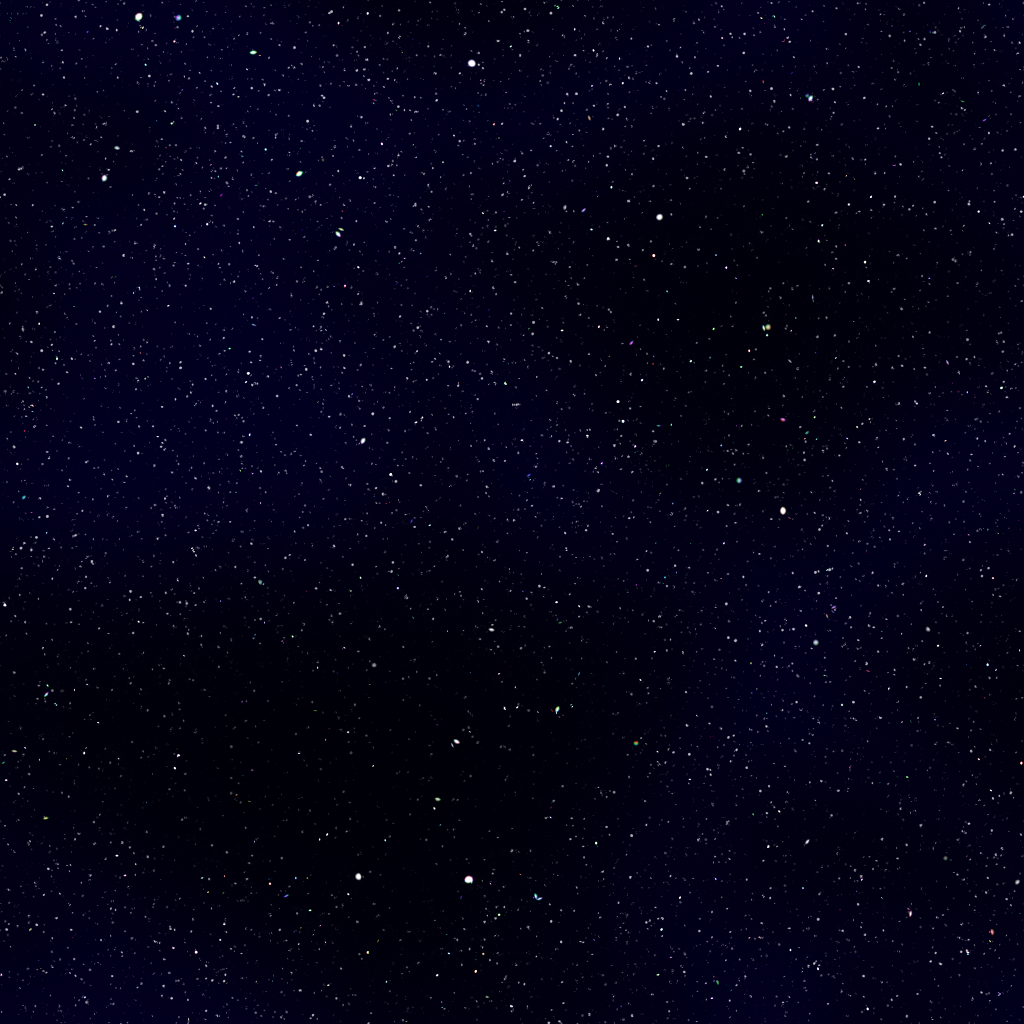
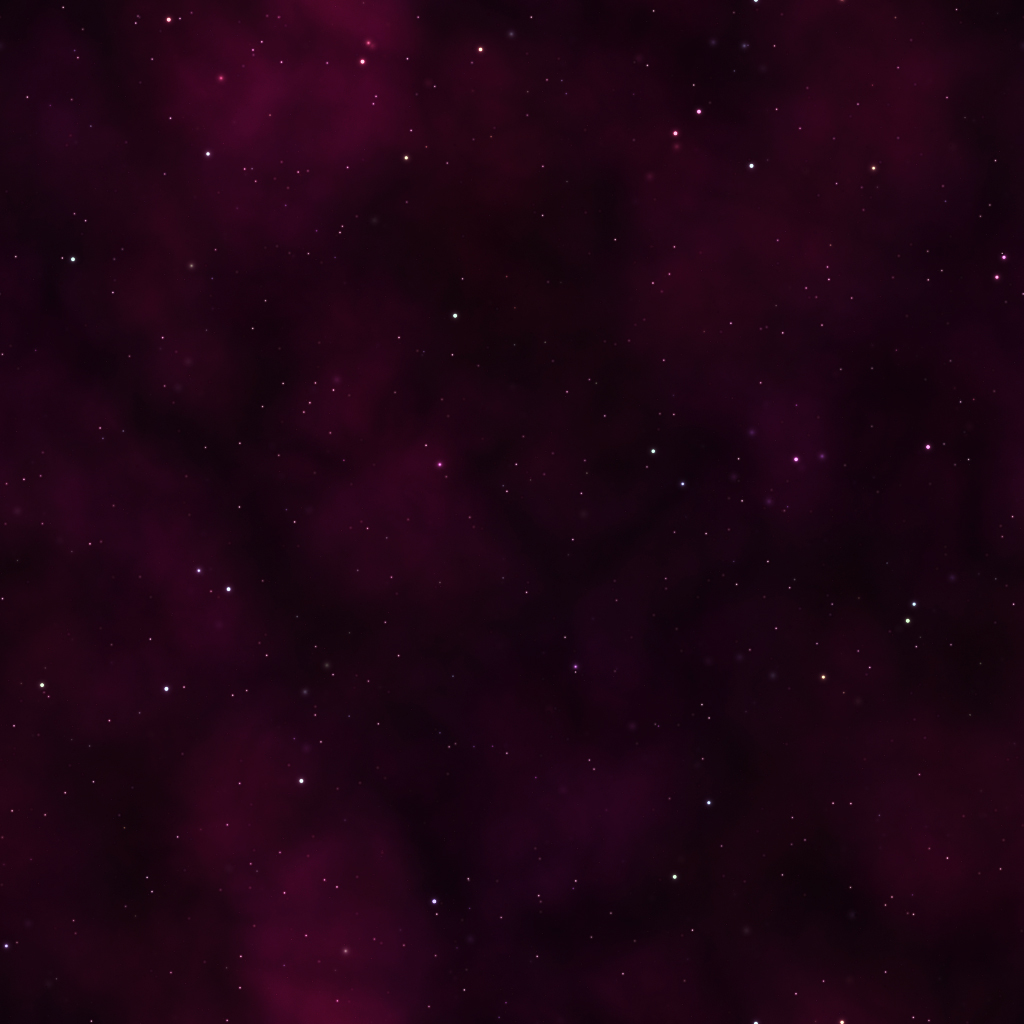
Made a preoper preloader

diff --git a/src/states/Game.js b/src/states/Game.js
@@ -26,17 +26,13 @@ var Game = function (game) {
 };
 
 Game.prototype.preload = function () {
-    this.game.load.bitmapFont('spacefont', 'assets/spacefont/spacefont.png', 'assets/spacefont/spacefont.xml');
-    Player.preload(this.game);
-    DefenceSystem.preload(this.game);
-    StarSystem.preload(this.game);
 };
 
 Game.prototype.create = function () {
     this.game.physics.startSystem(Phaser.Physics.ARCADE);
 
     //  Resize our game world to be a 2000 x 2000 square
-    //game.world.setBounds(-1000, -1000, 2000, 2000);
+    //this.game.world.setBounds(-1000, -1000, 2000, 2000);
 
     background = new Background(this.game);
 
@@ -61,7 +57,7 @@ Game.prototype.create = function () {
     gameOver = this.game.add.bitmapText(this.game.world.centerX, this.game.world.centerY, 'spacefont', 'GAME OVER!', 110);
     gameOver.x = gameOver.x - gameOver.textWidth / 2;
     gameOver.y = gameOver.y - gameOver.textHeight / 3;
-    gameOver.visible = false;
+    gameOver.visible = true;
     gameOver.fixedToCamera = true;
 
     fireButton = this.game.input.keyboard.addKey(Phaser.Keyboard.SPACEBAR);
@@ -105,11 +101,12 @@ Game.prototype.update = function () {
     if (! player.alive && gameOver.visible === false) {
         gameOver.visible = true;
         gameOver.alpha = 0;
+        console.log("Displaying game over");
         var fadeInGameOver = this.game.add.tween(gameOver);
         fadeInGameOver.to({alpha: 1}, 1000, Phaser.Easing.Quintic.Out);
         fadeInGameOver.onComplete.add(setResetHandlers);
         fadeInGameOver.start();
-        var self = this;
+
         function setResetHandlers() {
             //  The "click to restart" handler
             tapRestart = self.game.input.onTap.addOnce(_restart, this);

diff --git a/src/states/Preload.js b/src/states/Preload.js
@@ -7,14 +7,26 @@ Preload.prototype.preload = function () {
     loadingBar.anchor.setTo(0.5,0.5);
     this.load.setPreloadSprite(loadingBar);
 
+    var infoText = this.game.add.text(0, 0, "LOADING", { font: "87px Tahoma", fill: "#ffffff", wordWrap: true, wordWrapWidth: 300, align: "center" });
+    infoText.anchor.set(0.5);
+    infoText.x = this.game.world.centerX + 10;
+    infoText.y = this.game.world.centerY - 100;
+
     // The rest of the stuff to preload
     this.game.load.image("gameover","assets/gameover.png");
     this.game.load.image("menupanel","assets/glassPanel_cornerTL.png");
     this.game.load.image("buttonBlue","assets/buttonBlue.png");
+    this.game.load.spritesheet('exhaust', 'assets/exhaust.png', 91, 128, 4);
+    this.game.load.bitmapFont('spacefont', 'assets/spacefont/spacefont.png', 'assets/spacefont/spacefont.xml');
+    this.game.load.image('ammo', 'assets/turretBase_small.png');
+    this.game.load.image('turret', 'assets/turret.png');
+    this.game.load.image('star', 'assets/star_gold.png');
+    this.game.load.image('player', 'assets/ship_red.png');
+    this.game.load.image('star_gold', 'assets/star_gold.png');
+    this.game.load.spritesheet('explosion', 'assets/explode.png', 128, 128);
 
-    var number = this.game.rnd.integerInRange(1, 8);
+    var number = this.game.rnd.integerInRange(1, 7);
     this.game.load.image('background', 'assets/background/background' + number + '.jpg');
-
 
     // Audio stuff
     this.game.load.audio('intromusic', ['assets/sound/introwavybgm_0.mp3']);

diff --git a/src/DefenceSystem.js b/src/DefenceSystem.js
@@ -48,10 +48,4 @@ DefenceSystem.prototype.createTurret = function () {
     this.spawnTimer = this.game.time.events.add(this.game.rnd.integerInRange(this.spawnTime, this.spawnTime + 1000), this.createTurret.bind(this));
 };
 
-
-DefenceSystem.preload = function (game) {
-    Turret.preload(game);
-    game.load.image('ammo', 'assets/turretBase_small.png');
-};
-
 module.exports = DefenceSystem;

diff --git a/src/Turret.js b/src/Turret.js
@@ -33,11 +33,4 @@ Turret.prototype.fireWeapon = function () {
     this.spawnTimer = this.game.time.events.add(this.game.rnd.integerInRange(FIRE_DELAY, FIRE_DELAY * 2), this.fireWeapon.bind(this));
 };
 
-Turret.prototype.update = function () {
-};
-
-Turret.preload = function (game) {
-    game.load.image('turret', 'assets/turret.png');
-};
-
 module.exports = Turret;

diff --git a/src/Player.js b/src/Player.js
@@ -151,11 +151,4 @@ Player.prototype.explode = function () {
     this.kill();
 };
 
-Player.preload = function (game) {
-    game.load.image('player', 'assets/ship.png');
-    game.load.image('star_gold', 'assets/star_gold.png');
-    game.load.spritesheet('explosion', 'assets/explode.png', 128, 128);
-    Exhaust.preload(game);
-};
-
 module.exports = Player;

diff --git a/src/StarSystem.js b/src/StarSystem.js
@@ -37,8 +37,4 @@ StarSystem.prototype.createStar = function () {
     this.spawnTimer = this.game.time.events.add(this.game.rnd.integerInRange(this.spawnTime, this.spawnTime + 4000), this.createStar.bind(this));
 };
 
-StarSystem.preload = function (game) {
-    Star.preload(game);
-};
-
 module.exports = StarSystem;

diff --git a/src/Star.js b/src/Star.js
@@ -9,11 +9,4 @@ function Star(game, x, y) {
 Star.prototype = Object.create(Phaser.Sprite.prototype);
 Star.constructor = Star;
 
-Star.prototype.update = function () {
-};
-
-Star.preload = function (game) {
-    game.load.image('star', 'assets/star_gold.png');
-};
-
 module.exports = Star;

diff --git a/src/states/Boot.js b/src/states/Boot.js
@@ -3,7 +3,7 @@ var Boot = function (game) {
 };
 
 Boot.prototype.preload = function () {
-    this.game.load.image("loading","assets/loading.png");
+    this.game.load.image("loading","assets/gamedev_over.png");
 };
 
 Boot.prototype.create = function () {

diff --git a/src/Exhaust.js b/src/Exhaust.js
@@ -19,8 +19,4 @@ Exhaust.prototype.setVisibility = function (value) {
     this.visible = value;
 };
 
-Exhaust.preload = function (game) {
-    game.load.spritesheet('exhaust', 'assets/exhaust.png', 91, 128, 4);
-};
-
 module.exports = Exhaust;

diff --git a/src/Background.js b/src/Background.js
@@ -12,5 +12,4 @@ Background.prototype.update = function () {
     this.tilePosition.y = -this.game.camera.y;
 };
 
-
 module.exports = Background;
